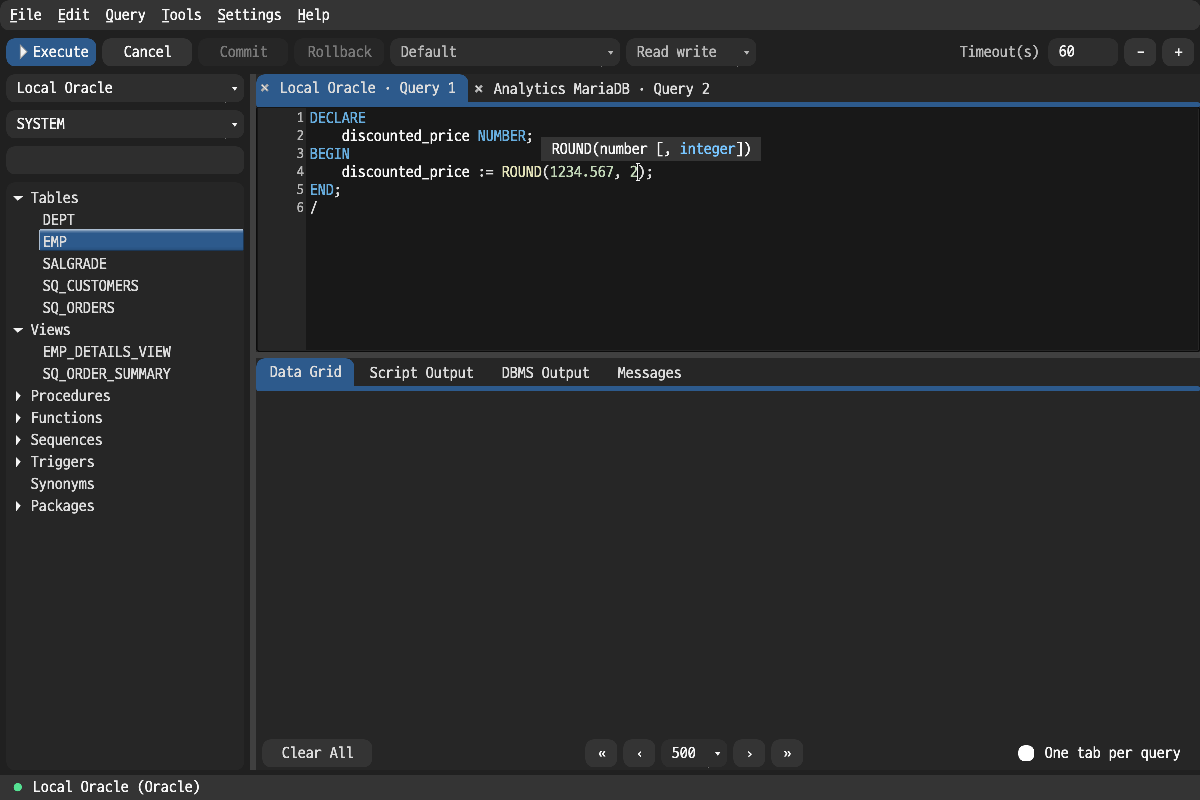
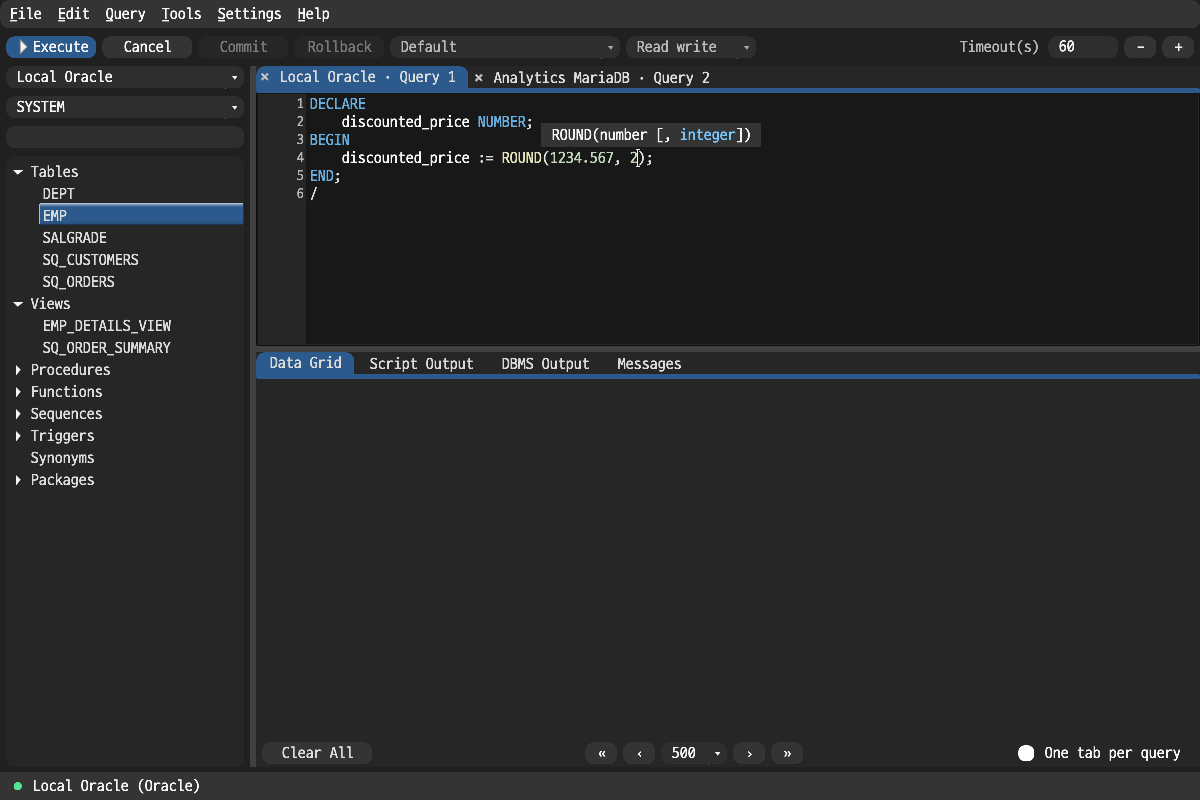
Refine UI sizing and execution completion state

diff --git a/src/ui/constants.rs b/src/ui/constants.rs
@@ -17,8 +17,8 @@ pub const TRANSACTION_ISOLATION_CHOICE_WIDTH: i32 = 230;
 /// Width for the transaction access mode selector in the query toolbar.
 pub const TRANSACTION_ACCESS_CHOICE_WIDTH: i32 = 130;
 
-/// Uniform height for interactive controls and tab headers across the app.
-pub const BUTTON_HEIGHT: i32 = 28;
+/// Standard height for interactive controls across the app.
+pub const BUTTON_HEIGHT: i32 = 22;
 
 // -- Form row heights --
 
@@ -29,7 +29,7 @@ pub const INPUT_ROW_HEIGHT: i32 = BUTTON_HEIGHT;
 pub const BUTTON_ROW_HEIGHT: i32 = BUTTON_HEIGHT;
 
 /// Height of a row containing only a label/frame.
-pub const LABEL_ROW_HEIGHT: i32 = 22;
+pub const LABEL_ROW_HEIGHT: i32 = BUTTON_HEIGHT;
 
 /// Height of a row containing a checkbox.
 pub const CHECKBOX_ROW_HEIGHT: i32 = BUTTON_HEIGHT;
@@ -58,10 +58,10 @@ pub const NUMERIC_INPUT_WIDTH: i32 = 70;
 // -- Layout constants --
 
 /// Height of the application menu bar.
-pub const MENU_BAR_HEIGHT: i32 = 30;
+pub const MENU_BAR_HEIGHT: i32 = 28;
 
 /// Height of the application status bar.
-pub const STATUS_BAR_HEIGHT: i32 = 25;
+pub const STATUS_BAR_HEIGHT: i32 = 28;
 
 /// Height of the filter input in the object browser.
 pub const FILTER_INPUT_HEIGHT: i32 = BUTTON_HEIGHT;
@@ -75,7 +75,7 @@ pub const TABLE_ROW_HEADER_WIDTH: i32 = 55;
 pub const TABLE_COL_HEADER_HEIGHT: i32 = 28;
 
 /// Default row height in result tables.
-pub const TABLE_ROW_HEIGHT: i32 = BUTTON_HEIGHT;
+pub const TABLE_ROW_HEIGHT: i32 = 28;
 
 /// Cell text padding (left/right) in result tables.
 pub const TABLE_CELL_PADDING: i32 = 4;
@@ -112,7 +112,7 @@ pub const MAIN_SPLITTER_WIDTH: i32 = 6;
 pub const QUERY_SPLIT_BAR_HEIGHT: i32 = 6;
 
 /// Height of the result toolbar row.
-pub const RESULT_TOOLBAR_HEIGHT: i32 = 34;
+pub const RESULT_TOOLBAR_HEIGHT: i32 = 28;
 
 /// Minimum height for the query editor pane.
 pub const MIN_QUERY_HEIGHT: i32 = 160;
@@ -127,3 +127,34 @@ pub const MIN_RESULTS_HEIGHT: i32 = RESULT_TOOLBAR_HEIGHT + MIN_RESULTS_BODY_HEI
 
 /// Default font size used when no config value is available.
 pub const DEFAULT_FONT_SIZE: i32 = 16;
+
+#[cfg(test)]
+mod tests {
+    use super::*;
+
+    #[test]
+    fn shared_controls_are_22_while_table_and_bar_heights_are_28() {
+        assert_eq!(
+            [
+                BUTTON_HEIGHT,
+                INPUT_ROW_HEIGHT,
+                BUTTON_ROW_HEIGHT,
+                LABEL_ROW_HEIGHT,
+                CHECKBOX_ROW_HEIGHT,
+                FILTER_INPUT_HEIGHT,
+                TAB_HEADER_HEIGHT,
+            ],
+            [22; 7]
+        );
+        assert_eq!(
+            [
+                TABLE_COL_HEADER_HEIGHT,
+                TABLE_ROW_HEIGHT,
+                MENU_BAR_HEIGHT,
+                STATUS_BAR_HEIGHT,
+                RESULT_TOOLBAR_HEIGHT,
+            ],
+            [28; 5]
+        );
+    }
+}

diff --git a/src/ui/sql_editor/execution.rs b/src/ui/sql_editor/execution.rs
@@ -2175,6 +2175,11 @@ impl Drop for QueryExecutionCleanupGuard {
                 &self.current_query_cancel_handle,
                 None,
             );
+            store_mutex_bool(&self.cancel_flag, false);
+            // Terminal progress handlers derive the query-tab label from this
+            // flag, so publish the idle state before waking the UI with the
+            // completion events.
+            store_mutex_bool(&self.query_running, false);
         }
         let operation_token = QueryOperationToken {
             tab_id: self.execution_metadata.tab_id,
@@ -2186,12 +2191,6 @@ impl Drop for QueryExecutionCleanupGuard {
             token: operation_token,
         });
         let _ = self.sender.send(QueryProgress::BatchFinished);
-        if cleanup_owns_current_operation {
-            store_mutex_bool(&self.cancel_flag, false);
-            // Keep execution state fail-safe even if the UI progress poller has
-            // stopped (e.g. tab closed while worker thread is still unwinding).
-            store_mutex_bool(&self.query_running, false);
-        }
     }
 }
 

diff --git a/src/ui/result_table.rs b/src/ui/result_table.rs
@@ -987,8 +987,7 @@ impl ResultTableWidget {
     }
 
     fn inline_editor_geometry(x: i32, y: i32, w: i32, h: i32) -> (i32, i32, i32, i32) {
-        let input_y = y + safe_div(h.saturating_sub(BUTTON_HEIGHT), 2).max(0);
-        (x + 1, input_y, (w - 2).max(24), BUTTON_HEIGHT)
+        (x + 1, y, (w - 2).max(24), h)
     }
 
     /// Returns the display column count for `text` using byte-level UTF-8 analysis.
@@ -13794,14 +13793,14 @@ mod tests {
     use std::time::Duration;
 
     #[test]
-    fn inline_editor_keeps_the_shared_control_height() {
+    fn inline_editor_matches_the_table_row_height() {
         assert_eq!(
             ResultTableWidget::inline_editor_geometry(10, 20, 100, 40),
-            (11, 26, 98, BUTTON_HEIGHT)
+            (11, 20, 98, 40)
         );
         assert_eq!(
-            ResultTableWidget::inline_editor_geometry(10, 20, 20, BUTTON_HEIGHT),
-            (11, 20, 24, BUTTON_HEIGHT)
+            ResultTableWidget::inline_editor_geometry(10, 20, 20, TABLE_ROW_HEIGHT),
+            (11, 20, 24, TABLE_ROW_HEIGHT)
         );
     }
 

diff --git a/src/ui/theme.rs b/src/ui/theme.rs
@@ -171,7 +171,7 @@ fn style_choice_with_background(choice: &mut Choice, background: Color) {
                 choice.y(),
                 content_width.saturating_sub(text_left_padding),
                 choice.h(),
-                Align::Left | Align::Inside,
+                Align::Left | Align::Inside | Align::Clip,
             );
         }
 

diff --git a/src/ui/main_window.rs b/src/ui/main_window.rs
@@ -8476,6 +8476,7 @@ impl MainWindow {
                     {
                         s.refresh_result_edit_controls();
                     }
+                    s.refresh_tab_label(tab_id);
                 }
                 QueryProgress::BatchStart {
                     activity,
